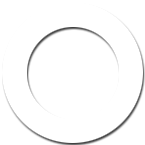
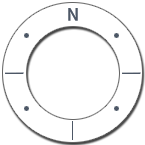
compass complete

diff --git a/lhdt-user/src/main/resources/templates/fragments/map-control.html b/lhdt-user/src/main/resources/templates/fragments/map-control.html
@@ -19,9 +19,15 @@
         <div id="mapCtrlCompassOut" class="bearing" ondragstart = "function () { return false; }">
             <div id="mapCtrlCompassIn" class="bearingIn" ondragstart = "function () { return false; }"></div>
             <div class="bearingInFan" ondragstart = "function () { return false; }">
-            	<svg style="width:100%;height:100%;" height="145" width="145" viewBox="0 0 145 145"  ondragstart = "function () { return false; }"><path d="M 72.46875,22.03125 C 59.505873,22.050338 46.521615,27.004287 36.6875,36.875 L 47.84375,47.96875 C 61.521556,34.240041 83.442603,34.227389 97.125,47.90625 l 11.125,-11.125 C 98.401629,26.935424 85.431627,22.012162 72.46875,22.03125 z" ondragstart = "function () { return false; }"></path></svg>
+            	<svg style="width:100%;height:100%;" height="145" viewBox="0 0 145 145" enable-background="new 0 0 145 145">
+					<path fill="#231815" d="M107.586,36.797c0-0.48-0.22-0.905-0.56-1.193c-0.005-0.005-0.008-0.016-0.013-0.021
+						c-9.653-9.046-22.048-13.569-34.436-13.551c-12.408,0.018-24.836,4.586-34.485,13.687c-0.003,0.003-0.005,0.011-0.008,0.015
+						c-0.305,0.287-0.499,0.691-0.499,1.143c0,0.424,0.169,0.806,0.441,1.088C38.029,37.975,38.034,38,38.034,38l8.925,8.902
+						c0,0,0.023,0.004,0.031,0.005c0.281,0.264,0.657,0.429,1.073,0.429c0.449,0,0.851-0.19,1.137-0.491
+					c13.302-12.237,33.521-12.243,46.818-0.034c0.005,0.005,0.017,0.006,0.022,0.011c0.283,0.279,0.671,0.452,1.101,0.452
+					c0.445,0,0.845-0.187,1.131-0.483l0.001,0l8.854-8.881v-0.002C107.411,37.622,107.586,37.23,107.586,36.797z"/>
+				</svg>
             </div>
-            <svg style="width:100%;height:100%;" height="145" width="145" viewBox="0 0 145 145" ondragstart = "function () { return false; }"><path d="m 66.5625,0 0,15.15625 3.71875,0 0,-10.40625 5.5,10.40625 4.375,0 0,-15.15625 -3.71875,0 0,10.40625 L 70.9375,0 66.5625,0 z M 72.5,20.21875 c -28.867432,0 -52.28125,23.407738 -52.28125,52.28125 0,28.87351 23.413818,52.3125 52.28125,52.3125 28.86743,0 52.28125,-23.43899 52.28125,-52.3125 0,-28.873512 -23.41382,-52.28125 -52.28125,-52.28125 z m 0,1.75 c 13.842515,0 26.368948,5.558092 35.5,14.5625 l -11.03125,11 0.625,0.625 11.03125,-11 c 8.9199,9.108762 14.4375,21.579143 14.4375,35.34375 0,13.764606 -5.5176,26.22729 -14.4375,35.34375 l -11.03125,-11 -0.625,0.625 11.03125,11 c -9.130866,9.01087 -21.658601,14.59375 -35.5,14.59375 -13.801622,0 -26.321058,-5.53481 -35.4375,-14.5 l 11.125,-11.09375 c 6.277989,6.12179 14.857796,9.90625 24.3125,9.90625 19.241896,0 34.875,-15.629154 34.875,-34.875 0,-19.245847 -15.633104,-34.84375 -34.875,-34.84375 -9.454704,0 -18.034511,3.760884 -24.3125,9.875 L 37.0625,36.4375 C 46.179178,27.478444 58.696991,21.96875 72.5,21.96875 z m -0.875,0.84375 0,13.9375 1.75,0 0,-13.9375 -1.75,0 z M 36.46875,37.0625 47.5625,48.15625 C 41.429794,54.436565 37.65625,63.027539 37.65625,72.5 c 0,9.472461 3.773544,18.055746 9.90625,24.34375 L 36.46875,107.9375 c -8.96721,-9.1247 -14.5,-21.624886 -14.5,-35.4375 0,-13.812615 5.53279,-26.320526 14.5,-35.4375 z M 72.5,39.40625 c 18.297686,0 33.125,14.791695 33.125,33.09375 0,18.302054 -14.827314,33.125 -33.125,33.125 -18.297687,0 -33.09375,-14.822946 -33.09375,-33.125 0,-18.302056 14.796063,-33.09375 33.09375,-33.09375 z M 22.84375,71.625 l 0,1.75 13.96875,0 0,-1.75 -13.96875,0 z m 85.5625,0 0,1.75 14,0 0,-1.75 -14,0 z M 71.75,108.25 l 0,13.9375 1.71875,0 0,-13.9375 -1.71875,0 z" ondragstart = "function () { return false; }"></path></svg>
         </div>
     </div>
 </html>

diff --git a/lhdt-user/src/main/resources/static/js/ko/map-controll.js b/lhdt-user/src/main/resources/static/js/ko/map-controll.js
@@ -723,8 +723,7 @@ Compass.prototype.handleDblClick = function(e) {
 	this._scene.tweens.add(tween);
 }
 Compass.prototype.handleDown = function(e) {
-	var tagName = e.target.tagName;
-	if(tagName === 'DIV') {
+	if(e.target.className === 'bearingIn') {
 		this.setOrbitMode(e);
 	} else {
 		this.setRotateMode(e);
@@ -879,7 +878,9 @@ Compass.prototype.getTimeStamp = function() {
 }
 
 Compass.prototype.setSvgRotate = function() {
-	this.compassElement.getElementsByTagName('svg').item(1).style.transform = `rotate(-${this._camera.heading}rad)`;
+	this.compassElement.style.transform = `rotate(-${this._camera.heading}rad)`;
+	this.compassElement.getElementsByClassName('bearingIn').item(0).style.transform = `rotate(${this._camera.heading}rad)`;
+	
 }
 
 $(document).ready(function() {
